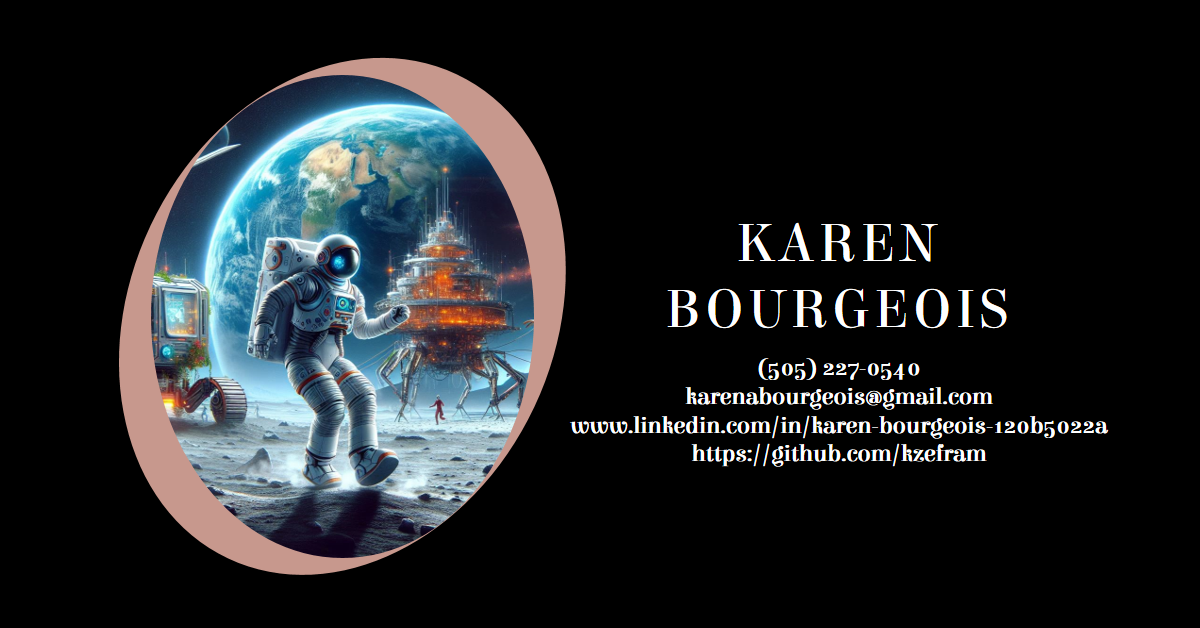
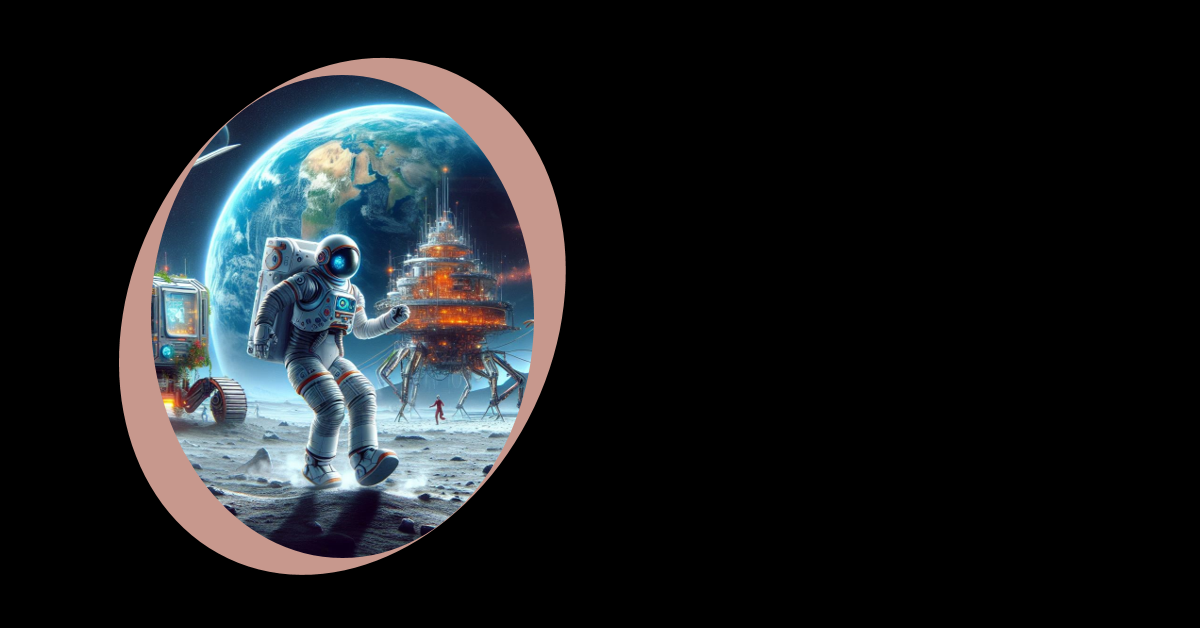
UX-coding

Changed region(s): [[0.4625, 0.5748, 0.925, 0.7564], [0.555, 0.4538, 0.8633, 0.5446], [0.6167, 0.3328, 0.8017, 0.4236]]

diff --git a/index.html b/index.html
@@ -13,6 +13,7 @@
         <link href="https://fonts.googleapis.com/css2?family=Poppins:wght@200;400;600;700&display=swap" rel="stylesheet">
         <link rel="stylesheet" href="./Assets/CSS/rest.css">
         <link rel="stylesheet" href="./Assets/CSS/style.css">
+        <link rel="stylesheet" href="https://cdn.jsdelivr.net/npm/bootstrap@5.3.2/dist/css/bootstrap.min.css">
     </head>
 
     <body>
@@ -26,6 +27,7 @@
 
         <header>
             
+            <img src="./Assets/images/dancingAstronautWords.png" alt="Karen's Information" class="header-info">
         </header>
 
         
@@ -33,7 +35,7 @@
         <main>
             <section class="About-Me" >
                 <br><br><br>
-                <h2 id="About-Me">About Me</h2>
+                <h2 id="About-Me">About Me</h2><br>
                 <section class="about-me-para">
                     <p>I'm an ex-Holistic Health Coach turned Full-stack and Software Quality Assurance Tester.</p><br/>
                     <p>I have been homeschooling my daughter part-time since she was three, and that brings me to how I became interested in coding and software testing. She had approached me with a passing interest in coding. At the time, I didn't know much about it at all and needed to learn the basics.</p><br/>
@@ -46,32 +48,59 @@
                 <section class="work-title">
                 <h2 id="work">Work</h2>
                 </section>
-                <section class="work-items">
-                    <section class="card">
-                        <a href="https://kzefram.github.io/prework-study-guide/"><img src="./Assets/images/lrgscreensite.png" alt="Picture of website" class="work-image"/></a>
-                        <p class="work-para">This Prework Study Guide was created for bootcamp students who were going through the Prework before starting actual classes. It contains my notes on HTML, CSS, Advanced CSS, Git, and JavaScript.</p>
+                    <section class="work-items">
+                        <div class="card col-4" style="width: 18rem;">
+                            <img src="./Assets/images/LegalAge100.png" class="card-img-top" alt="...">
+                            <div class="card-body">
+                            <h5 class="card-title">Legal Age Application</h5>
+                            <p class="card-text">This was created as part of my course assignments while taking 'Introduction to Coding - C#' at NBCC-Saint John. I made it the legal age for my daughter to play with because she is always asking if she's old enough. I had a lot of fun creating this application.
+
+                                There are 3 options: underage, legal age, and still going. C#</p>
+                            <a href="https://github.com/kzefram/LegalAge" class="btn btn-primary">GitHub Repo</a>
+                            </div>
+                        </div>
+                        
+                        <div class="card col-4" style="width: 18rem;">
+                            <img src="./Assets/images/bodesingevents.png" class="card-img-top" alt="">
+                            <div class="card-body">
+                              <h5 class="card-title">Events and Weather</h5>
+                              <p class="card-text">The purpose of this website is to make sure users are given information about the current week's events and weather to ensure that they can make the best decision about which event to go to and how to best prepare for that event. On this site, we have utilized the knowledge we have learned through our studies. In this project we will use: HTML, CSS, APIs, jquery and JavaScript.</p>
+                              <a href="https://kzefram.github.io/BODESING-Events/" class="btn btn-primary">See The Site</a>
+                            </div>
+                          </div>
+                          <div class="card col-4" style="width: 18rem;">
+                            <img src="./Assets/images/notetaker.png" class="card-img-top" alt="...">
+                            <div class="card-body">
+                              <h5 class="card-title">Simple Notes</h5>
+                              <p class="card-text">The usage of this application is to ensure an easy to use interface where someone can keep all their notes in one place. the user can clear the form if they don't want to keep that specific note they are trying to write.</p>
+                              <a href="https://simple-note-taking-app.onrender.com" class="btn btn-primary">See The Site</a>
+                            </div>
+                          </div>
+                          <div class="card col-4" style="width: 18rem;">
+                            <img src="./Assets/images/daily-schedule.png" class="card-img-top" alt="...">
+                            <div class="card-body">
+                              <h5 class="card-title">Daily-Schedule</h5>
+                              <p class="card-text">This application is a daily-schedule for one day. The purpose is to be able to have the colours change accounding to what time it is and be able to enter in events. The events must be able to be saved.</p>
+                              <a href="https://kzefram.github.io/Daily-Schedule/" class="btn btn-primary">See The Site</a>
+                            </div>
+                          </div>
+                          <div class="card col-4" style="width: 18rem;">
+                            <img src="./Assets/images/finishedREADME.png" class="card-img-top" alt="...">
+                            <div class="card-body">
+                              <h5 class="card-title">README Generator</h5>
+                              <p class="card-text">This is an application that will generate a professional README file for your repository. Who wants all their hard work to be down-played by a README file that doesn't stand up to all the work your've put into it? This application will help you along the way.</p>
+                              <a href="https://github.com/kzefram/ProfessionalREADMEGenerator" class="btn btn-primary">GitHub Repo</a>
+                            </div>
+                          </div>
+                          <div class="card col-4" style="width: 18rem;">
+                            <img src="./Assets/images/LandingPagecrop.png" class="card-img-top" alt="...">
+                            <div class="card-body">
+                              <h5 class="card-title">Collaborative Notes</h5>
+                              <p class="card-text">SynthNotes is a cutting-edge, Collaborative Note-Taking App designed to improve productivity and collaboration among users. With AI-powered summarization, real-time collaboration, and an array of other advanced features, SynthNotes stands out as the go-to solution for students, professionals, and teams who aspire to manage their notes efficiently and collaborate seamlessly. Still in progress</p>
+                              <a href="https://github.com/naturuplift/CollaborativeNoteTakingApp" class="btn btn-primary">GitHub Repo</a>
+                            </div>
+                          </div>
                     </section>
-                    <section class="card">
-                        <a href="https://github.com/kzefram/LegalAge"><img class="work-image" src="./Assets/images/legalAgeOpen.png" alt="Home Screen of the program Legal Age"/></a>
-                        <p class="work-para">This is to check if someone is of legal age for NB, Canada. There are 3 options: underage, legal age, and still going.</p>
-                    </section>
-                    <section class="card">
-                        <a href="https://github.com/kzefram/PixTutorial"><img class="work-image" src="./Assets/images/PixBoxPicHome.png" alt="Picture of home screen for Picture Box"/></a>
-                        <p class="work-para">The Program demonstrates my ability to make the buttons change the picture.</p>
-                    </section>
-                    <section class="card">
-                        <a href="https://github.com/kzefram/KarenBourgeois-Portfolio-Mod2"><img class="work-image" src="./Assets/images/Portfolio2.png" alt="Picture of work section of Portfolio"/></a>
-                        <p class="work-para">I am making this as part of a bookcamp challenge and my own persal use to showcase my work.</p>
-                    </section>
-                    <section class="card">
-                        <a href="#"><img class="work-image" src="https://picsum.photos/640/360" alt=""/></a>
-                        <p class="work-para">“Lorem Ipsum...but for photos” reads the tagline. And that's precisely what Lorem Picsum offers. Start by selecting your dimensions, add filters and gravity, and even return a list of photos.</p>
-                    </section>
-                    <section class="card">
-                        <a href="#"><img class="work-image" src="https://picsum.photos/640/360" alt=""/></a>
-                        <p class="work-para">“Lorem Ipsum...but for photos” reads the tagline. And that's precisely what Lorem Picsum offers. Start by selecting your dimensions, add filters and gravity, and even return a list of photos.</p>
-                    </section>
-                </section>
                 <br><br><br>
             </section>
 
@@ -84,10 +113,11 @@
             <footer>
                 <br><br><br>
                 <h6>&copy; Copyright 2023 Karen Bourgeois</h6>
-                <br><br><br>
+                <br><br><br><br><br><br>
             </footer>
         </main>
         <script src="#"></script>
+        <script src="https://cdn.jsdelivr.net/npm/bootstrap@5.3.2/dist/js/bootstrap.bundle.min.js"></script>
     </body>
 
 </html>

diff --git a/Assets/CSS/style.css b/Assets/CSS/style.css
@@ -17,6 +17,16 @@ header {
     background-position: center;
 }
 
+.header-info {
+    position:absolute;
+	top:50%;
+	left:70%;
+	-webkit-transform:translate(-50%,-50%);
+	        transform:translate(-50%,-50%);
+	text-align:center;
+    height: 350px;
+}
+
 .nav {
     list-style-type: none;
     margin: 0;
@@ -28,10 +38,11 @@ header {
     display: inline-flex;
     flex-direction: row;
     float: inline-end;
-    color: white;
-    padding: 0px 16px 0px 0px;
+    color: black;
+    padding:0px 16px 0px 10px;
     text-decoration: none;
-    position: relative;
+    /* position: relative; */
+
 }
 
 .nav-list:hover {
@@ -140,6 +151,9 @@ footer {
     .header-image {
         height: auto;
         width: auto;
+    }
+    .header-info {
+        height: 250px;
     }
 
 }
